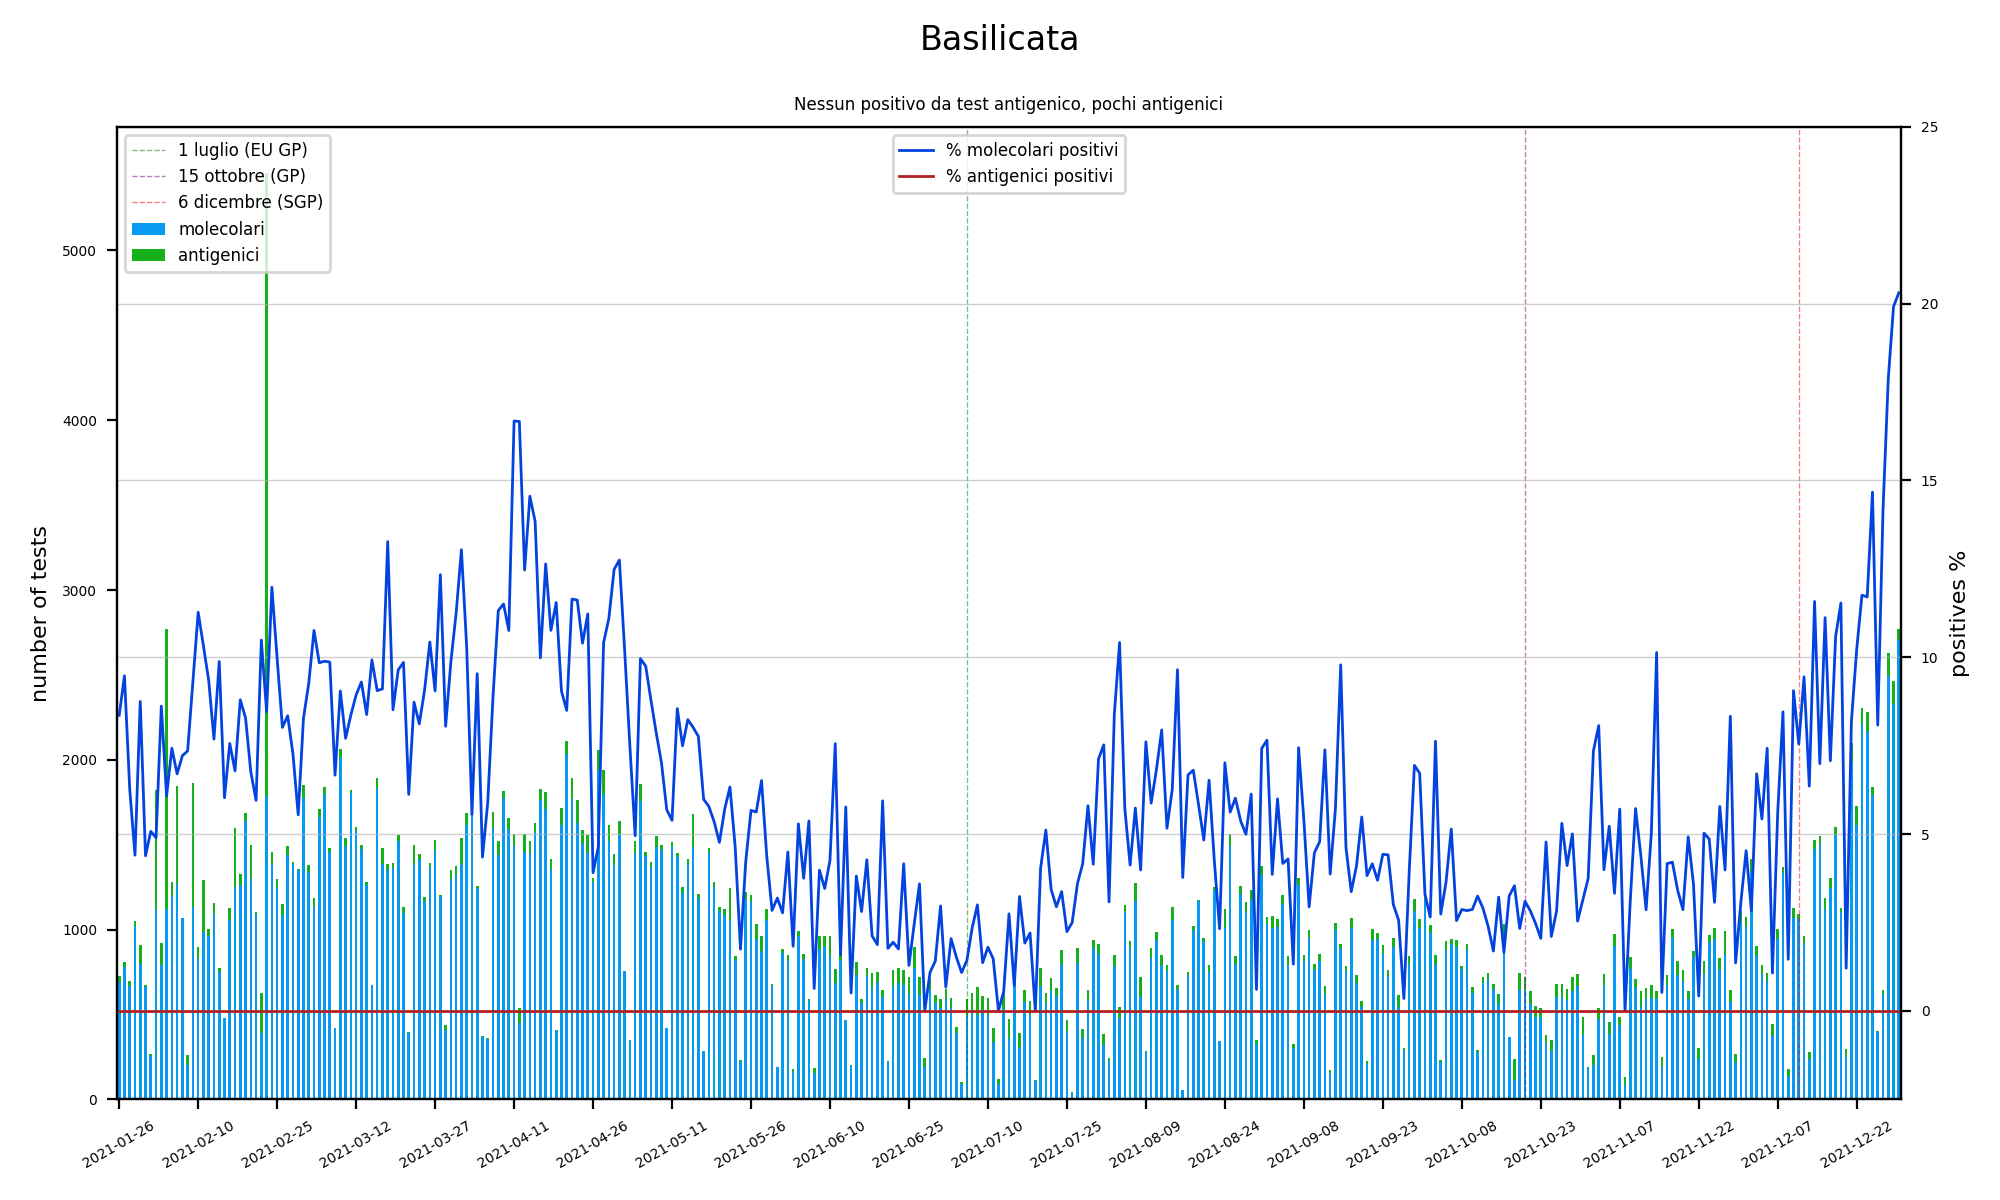
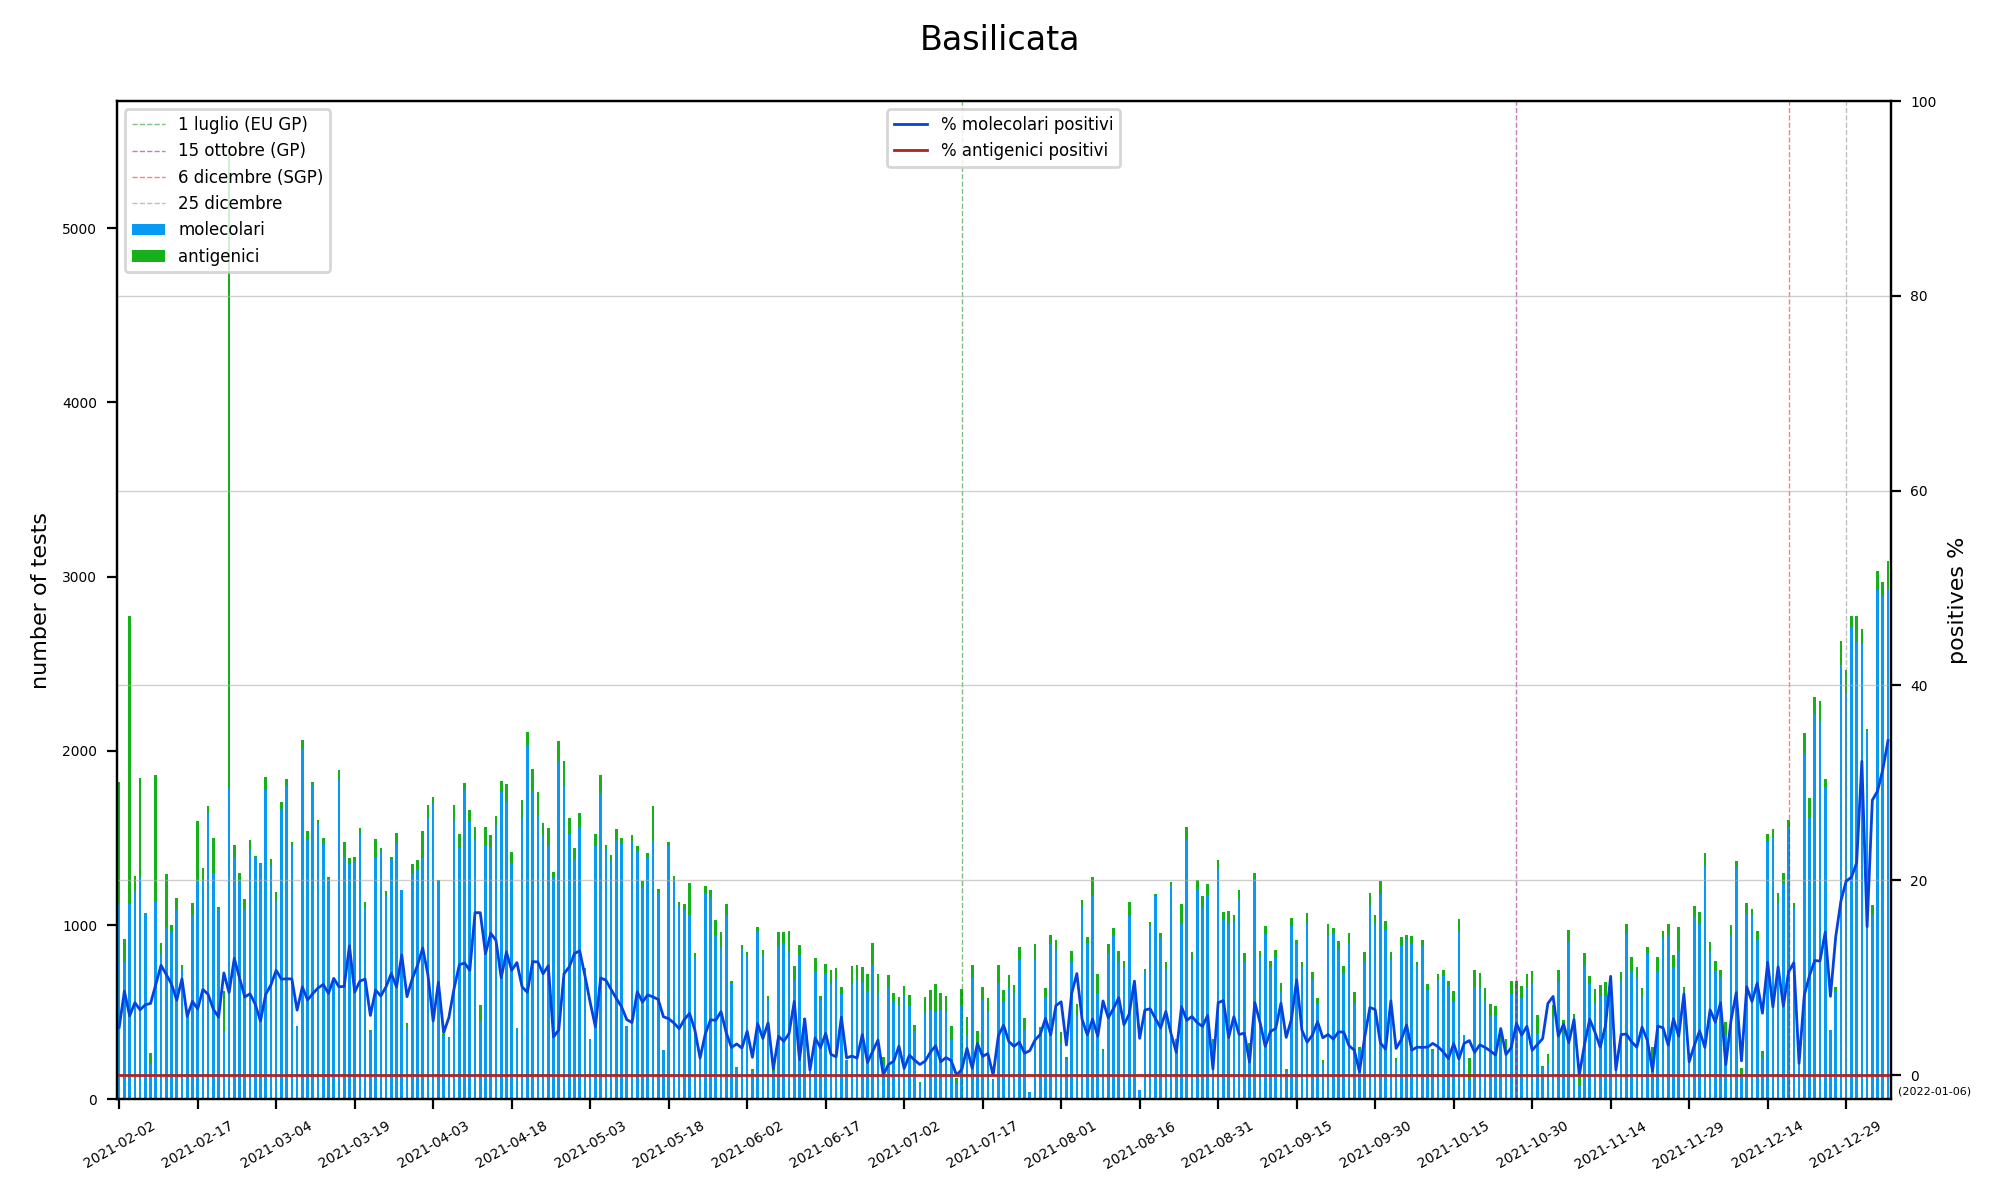
update grafici 6 gennaio

diff --git a/regioni_ita/antigenici.py b/regioni_ita/antigenici.py
@@ -32,28 +32,28 @@ subtitles = {
 "Italia": "",
 }
 
+all_data = None
+for f in files:
 
-for reg_id in range(1, 23):	
+	print(f)
 
-	all_data = None
-	for f in files:
+	data = pd.read_csv(f, encoding="ISO-8859-1") 
 
-		print(f)
-
-		data = pd.read_csv(f, encoding="ISO-8859-1") 
-
-		if all_data is None:
-			all_data = data
-		else:
-			all_data = all_data.append(data)
+	if all_data is None:
+		all_data = data
+	else:
+		all_data = all_data.append(data)
 
 
-	all_data.drop_duplicates(keep='first', inplace=True) 
-	all_data.sort_values(by=['data'])
+all_data.drop_duplicates(keep='first', inplace=True) 
+all_data.sort_values(by=['data'])
 
+
+
+for reg_id in range(0, 23):	
 
 	filtra_regione = reg_id
-	if filtra_regione:
+	if filtra_regione > 0:
 		is_regione = all_data['codice_regione'] == filtra_regione	
 
 		print(all_data[is_regione])
@@ -71,8 +71,11 @@ for reg_id in range(1, 23):
 	casi = casi[['data','tamponi_test_molecolare', 'tamponi_test_antigenico_rapido', 'totale_positivi_test_molecolare', 'totale_positivi_test_antigenico_rapido']]
 
 
-	#regione = "Italia"
-	casi = casi[-340:]
+	if filtra_regione > 0:
+		casi = casi[-340:]
+	else:
+		regione = "Italia"
+		casi = casi[-7200:]
 
 
 	num_casi = casi.groupby(['data']).sum().reset_index()
@@ -117,8 +120,9 @@ for reg_id in range(1, 23):
 	plt.axvline(x=161, color="green", linewidth=0.5, alpha=0.5, linestyle='--', label="1 luglio (EU GP)")
 	plt.axvline(x=267, color="purple", linewidth=0.5, alpha=0.5, linestyle='--', label="15 ottobre (GP)")	# 15 ottobre
 	plt.axvline(x=319, color="red", linewidth=0.5, alpha=0.5, linestyle='--', label="6 dicembre (SGP)")	# 6 dicembre
+	plt.axvline(x=330, color="gray", linewidth=0.5, alpha=0.5, linestyle='--', label="25 dicembre")
 
-	plt.xticks(size = 8, fontsize = 5)
+	plt.xticks(fontsize = 5)
 	plt.yticks(fontsize = 5)
 
 	locator=MaxNLocator(prune='both', nbins=25)
@@ -126,21 +130,25 @@ for reg_id in range(1, 23):
 
 	ax2=ax.twinx()
 	#plt.axhline(y=0, linewidth=0.5, alpha=0.5, color='black', label="0% positivi")
+	print("pos", regione, num_casi['perc_positivi_m'].max())
 	num_casi.plot(kind='line', x='data', y='perc_positivi_m', color='#0343df', linewidth=1, ax=ax2, label="% molecolari positivi")
 	num_casi.plot(kind='line', x='data', y='perc_positivi_ag', color='firebrick', linewidth=1, ax=ax2, label="% antigenici positivi")
 
 	ax2.grid(axis='y', linewidth=0.5, alpha=0.6)
-	ax2.set_ylim([-2.5, 25])
+	ax2.set_ylim([-2.5, 100])
 	ax2.set_ylabel('positives %', fontsize = 8)
 	plt.yticks(fontsize = 5)
 
 	from textwrap import wrap
 	plt.suptitle(regione)
 	subtitle = subtitles.get(regione, "Missing...")
-	plt.title('\n'.join(wrap(subtitle, 220)), fontsize=6)
+	#plt.title('\n'.join(wrap(subtitle, 220)), fontsize=6)
 
 	ax.legend(loc='upper left', fontsize = 6) 
 	ax2.legend(loc='upper center', fontsize = 6) 
+
+	from datetime import date
+	plt.text(340, -2, f"({str(date.today())})", fontsize = 4)
 
 	plt.tight_layout()
 
